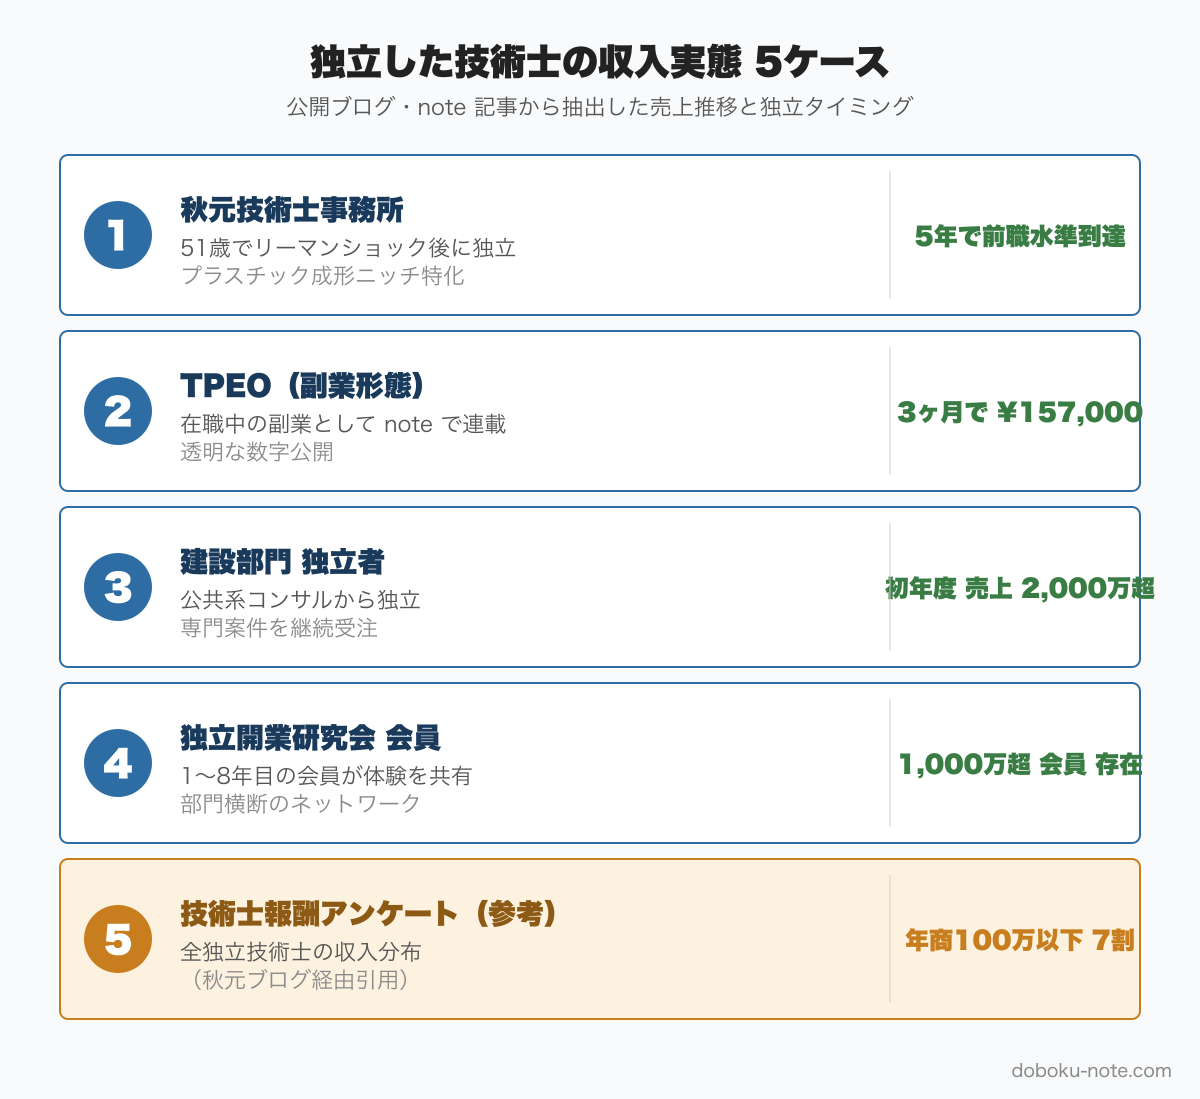
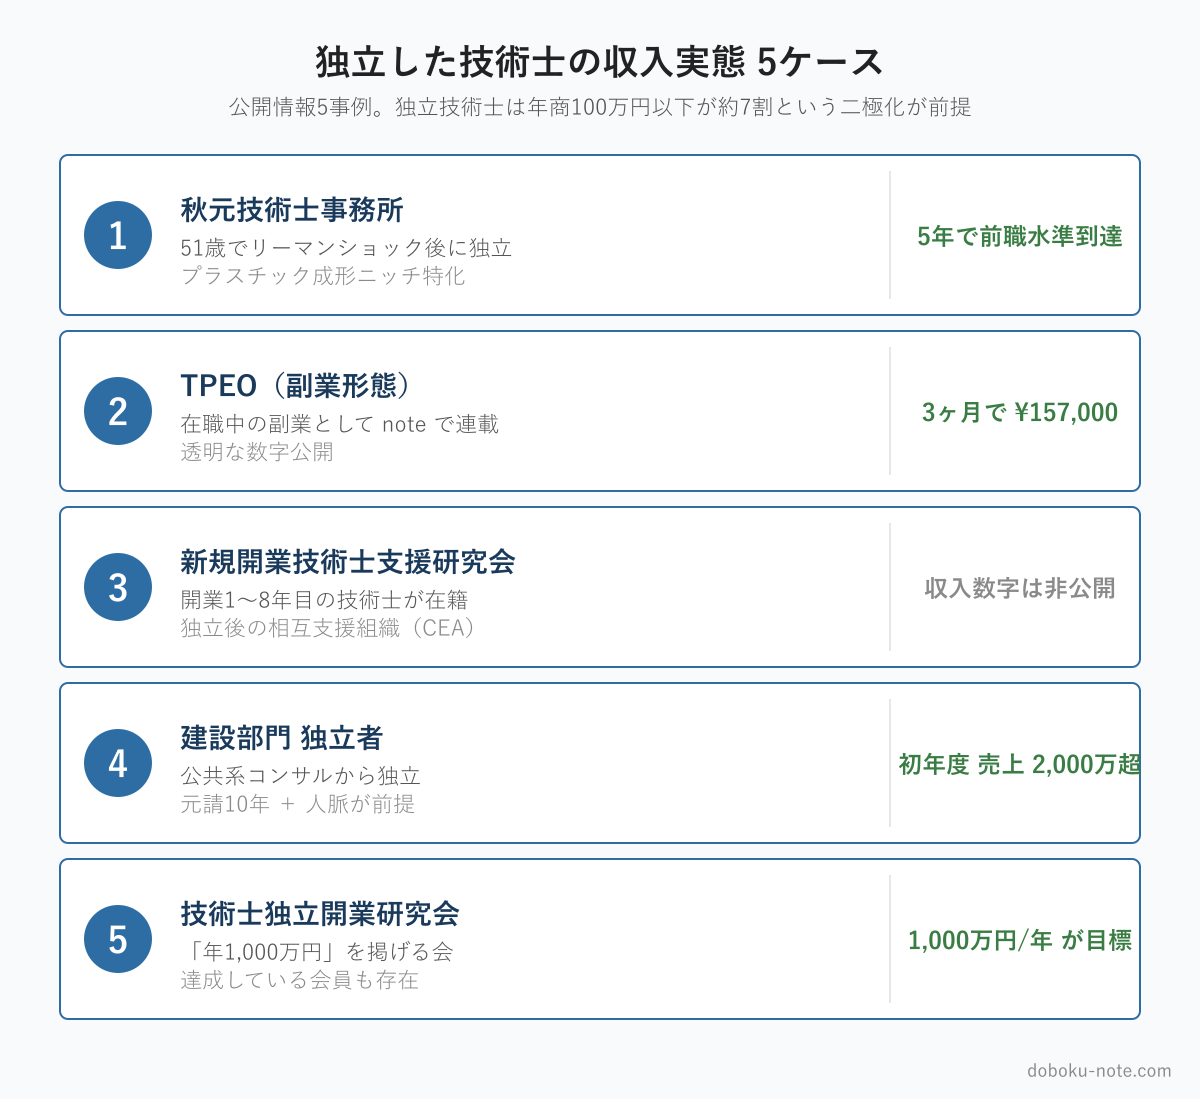
fix(note): Phase2残件を全解消（回収年数フレーミング・図と本文のケース整合等）
ペイするか:
- 結論「5年/3〜4年で回収」→「2年で回収」に統一（詳細計算の2年目に整合）
- figure-1-roi-by-age を「3年目で回収/+972万」→「2年目で回収/累計1,105・745・385万」
  （箇条書きグリッドのグロス累計と一致）、注記も勤続3年未満→2年未満
- パターン2見出し「3年未満」→「2年未満」（本文「2年以内」と整合）

民間メリット:
- money-chain図「転職で年収2倍事例」→「+50〜150万円」（本文の現実値・特殊事例の留保に整合）

独立収入実態:
- figure-1-independence-cases を本文事例1-5順に再構成（ケース3=CEA研究会・4=建設部門・
  5=独立開業研究会、報酬アンケート7割はサブタイトルへ移動）読者の番号誤読を解消
- 「約16万円」→「157,000円」、ロードマップ年商上端 500→480万（損益分岐と整合）

3記事共通:
- 「700以上のキーワード解説ページ」→「650以上」（実数658に整合）

diff --git a/docs/note/技術士総監/総監受験は投資としてペイするか/article.md b/docs/note/技術士総監/総監受験は投資としてペイするか/article.md
@@ -47,11 +47,11 @@ cover:
 
 ![総監受験の投資回収カーブ。初期コストを超えた後、手当が積み上がり続けるグラフ](img/figure-1-roi-curve.png)
 
-## 結論：5年で回収できる投資、ただし条件がある
+## 結論：2年で回収できる投資、ただし条件がある
 
 先に結論を示します。
 
-建設コンサルタント勤務で30〜40代、月額資格手当が3万円前後の環境なら、**学習コストは3〜4年で回収でき、以降は純粋なプラスが積み上がり続けます**。
+建設コンサルタント勤務で30〜40代、月額資格手当が3万円前後の環境なら、**学習コストは2年で回収でき、以降は純粋なプラスが積み上がり続けます**。
 
 10年スパンで見ると、月3〜5万円の手当環境（建設コンサル中堅以上）であれば、手当だけで300〜500万円のリターンが見込めます。さらに転職・独立・定年後再就職の文脈での市場価値向上を加えると投資対効果は相当に高い計算です。
 
@@ -252,7 +252,7 @@ cover:
 
 ただし、注意点があります。「今の会社には制度がない」と言っても、制度改定で後からできることがあります。また転職先の選択肢に資格手当の充実した企業が加われば、その時点から回収が始まります。
 
-### パターン2：勤続予定が3年未満
+### パターン2：勤続予定が2年未満
 
 ケースBで回収完了が 2 年目なので、定年・退職・転職などで 2 年以内に現職を離れる場合は手当による回収が完了しません。ただし転職先でも手当が出る環境なら回収は継続されます。
 
@@ -324,13 +324,13 @@ https://note.com/dobokunote/m/m607bf095b02a
 
 ## 関連リソース
 
-**doboku-note — 17年分の過去問 + 700キーワード解説**（無料）
+**doboku-note — 17年分の過去問 + 650キーワード解説**（無料）
 
 https://doboku-note.com
 
 - 17年分の択一式過去問（全問解答解説つき）
 - キーワード集2026の全項目をWeb検索可能
-- 700以上のキーワード解説ページ（スマホ対応）
+- 650以上のキーワード解説ページ（スマホ対応）
 
 **note のおすすめ記事**
 

diff --git a/docs/note/技術士総監/総監を取って独立した技術者の収入実態/article.md b/docs/note/技術士総監/総監を取って独立した技術者の収入実態/article.md
@@ -95,7 +95,7 @@ cover:
 
 「少なくとも年間20万円以上は稼がないと青色申告登録の意味がない」「65万円控除まで使えるくらいを目標にしたい」という現実的な目標設定が記録されている。
 
-完全独立までの事例ではないが、副業段階の数字が可視化されている点で貴重だ。副業技術士として3ヶ月で約16万円という数字は、「始めれば即収入」ではなく「土台作りに時間がかかる」という実態を示している。
+完全独立までの事例ではないが、副業段階の数字が可視化されている点で貴重だ。副業技術士として3ヶ月で157,000円という数字は、「始めれば即収入」ではなく「土台作りに時間がかかる」という実態を示している。
 
 **取得部門**：非公開（環境系・機械系と推測されるが公開情報では未確認）
 **独立タイミング**：副業段階（本業継続中）
@@ -231,7 +231,7 @@ cover:
 
 ### ステップ4（独立後・1〜5年目）：損益分岐点超えからサラリーマン水準へ
 
-- 独立後1〜2年目：年商350〜500万円（損益分岐点超え）
+- 独立後1〜2年目：年商350〜480万円（損益分岐点超え）
 - 独立後3〜4年目：年商500〜700万円（安定ライン）
 - 独立後5年目以降：年商800万円超（サラリーマン時代の水準）
 
@@ -274,13 +274,13 @@ https://note.com/dobokunote/m/m607bf095b02a
 
 ## 関連リソース
 
-**doboku-note — 17年分の過去問 + 700キーワード解説**（無料）
+**doboku-note — 17年分の過去問 + 650キーワード解説**（無料）
 
 https://doboku-note.com
 
 - 17年分の択一式過去問（全問解答解説つき）
 - キーワード集2026の全項目をWeb検索可能
-- 700以上のキーワード解説ページ（スマホ対応）
+- 650以上のキーワード解説ページ（スマホ対応）
 
 **note のおすすめ記事**
 

diff --git a/docs/note/技術士総監/民間建設技術者の総監メリット/article.md b/docs/note/技術士総監/民間建設技術者の総監メリット/article.md
@@ -185,13 +185,13 @@ https://note.com/dobokunote/m/m607bf095b02a
 
 ## 関連リソース
 
-**doboku-note — 17年分の過去問 + 700キーワード解説**（無料）
+**doboku-note — 17年分の過去問 + 650キーワード解説**（無料）
 
 https://doboku-note.com
 
 - 17年分の択一式過去問（全問解答解説つき）
 - キーワード集2026の全項目をWeb検索可能
-- 700以上のキーワード解説ページ（スマホ対応）
+- 650以上のキーワード解説ページ（スマホ対応）
 
 **note のおすすめ記事**
 
